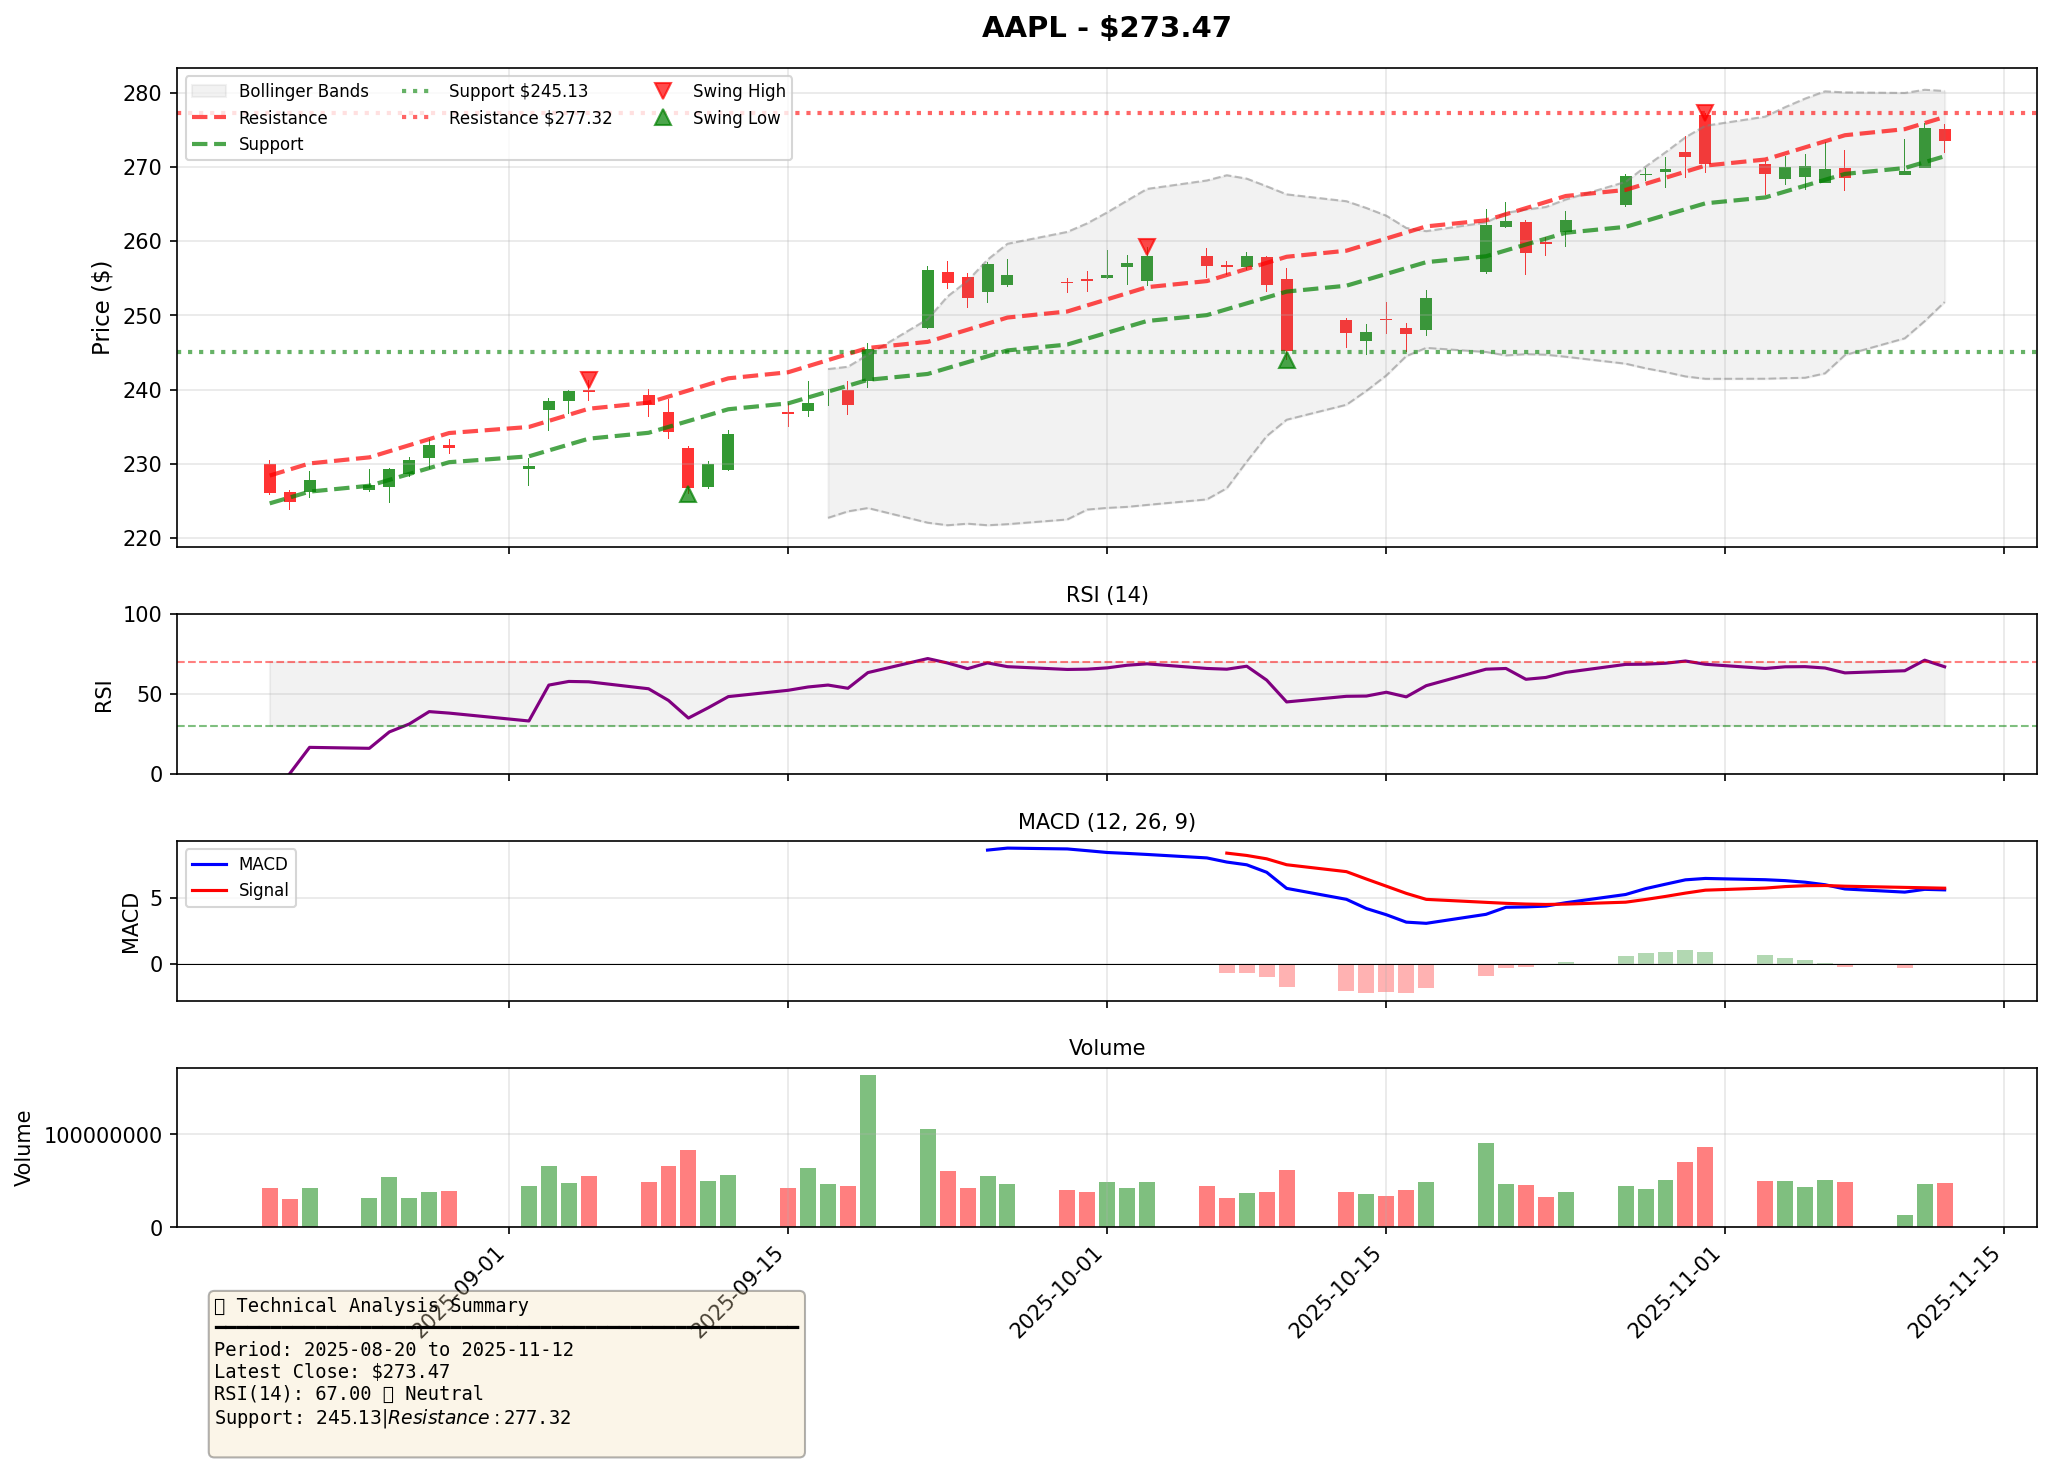
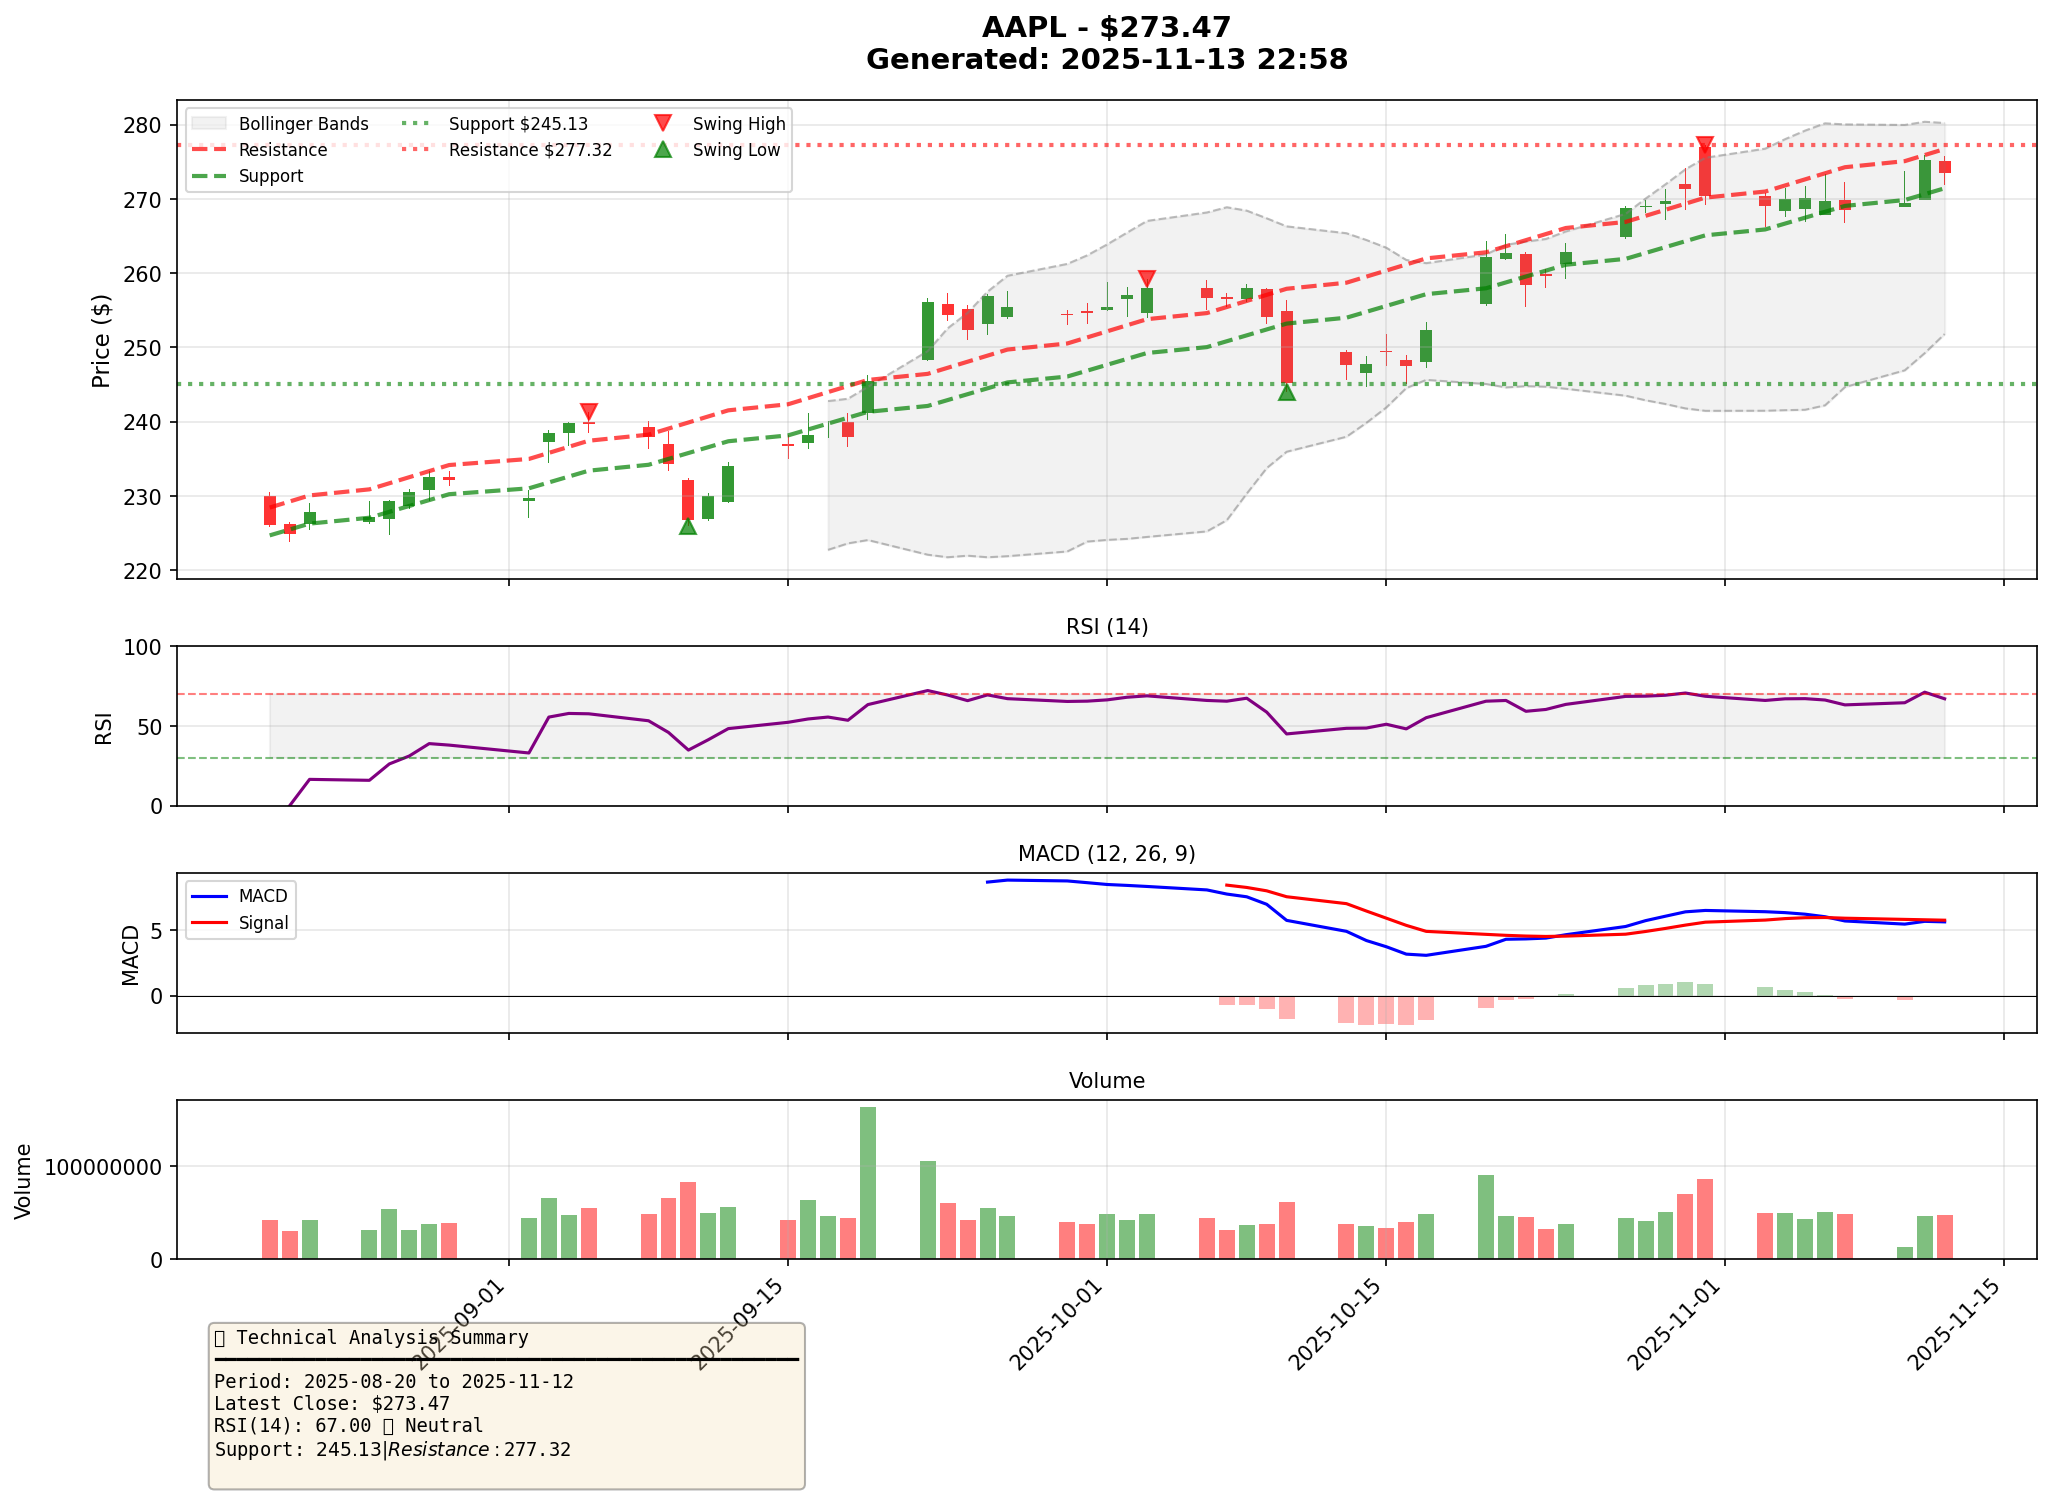
feat: Add generation date to all charts and remove timestamps from filenames
Chart Naming Consistency:
- Remove timestamps from ABC chart filenames
- Changed: AAPL_ABC_BULLISH_20251113_225051.png
- To: AAPL_ABC_BULLISH.png
- Now consistent with breakouts and indicators charts

Generation Date Display:
- Add 'Generated: YYYY-MM-DD HH:MM' to all chart titles
- ABC charts: Shows in title (2nd line)
- Breakout charts: Shows in title with price/trend
- Indicator charts: Shows in title (2nd line)

Benefits:
✅ Consistent naming across all chart types
✅ Generation date visible IN the chart itself
✅ One chart file per symbol (cleaner folders)
✅ Charts overwrite daily (no accumulation)
✅ Easy to reference with fixed filenames
✅ Git history preserves old versions if needed

Filenames:
- Breakouts: AAPL.png, TQQQ.png, etc.
- Indicators: AAPL_indicators.png, TQQQ_indicators.png, etc.
- ABC Patterns: AAPL_ABC_BULLISH.png, TQQQ_ABC_BULLISH.png, etc.

All charts now show when they were generated!

diff --git a/src/chart_utils.py b/src/chart_utils.py
@@ -88,14 +88,14 @@ class ChartOrganizer:
     def get_abc_pattern_path(self, 
                             symbol: str, 
                             pattern_type: str,
-                            timestamp: bool = True) -> Path:
+                            timestamp: bool = False) -> Path:
         """
         Get path for ABC pattern chart
         
         Args:
             symbol: Symbol name
             pattern_type: BULLISH or BEARISH
-            timestamp: Whether to include timestamp
+            timestamp: Whether to include timestamp (default: False for consistency)
         """
         suffix = f"_ABC_{pattern_type}"
         if timestamp:
@@ -232,7 +232,7 @@ def get_indicators_chart_path(symbol: str, timestamp: bool = False) -> str:
     """Get path for indicators chart"""
     return str(get_chart_organizer().get_indicators_path(symbol, timestamp))
 
-def get_abc_chart_path(symbol: str, pattern_type: str, timestamp: bool = True) -> str:
+def get_abc_chart_path(symbol: str, pattern_type: str, timestamp: bool = False) -> str:
     """Get path for ABC pattern chart"""
     return str(get_chart_organizer().get_abc_pattern_path(symbol, pattern_type, timestamp))
 
@@ -249,7 +249,7 @@ if __name__ == "__main__":
     print("Example paths:")
     print(f"  Breakout:    {organizer.get_breakout_path('TQQQ')}")
     print(f"  Indicators:  {organizer.get_indicators_path('AAPL')}")
-    print(f"  ABC:         {organizer.get_abc_pattern_path('UBER', 'BULLISH')}")
+    print(f"  ABC:         {organizer.get_abc_pattern_path('UBER', 'BULLISH', timestamp=False)}")
     print(f"  Strategy:    {organizer.get_strategy_path('SP500', 'rsi_macd')}")
     
     organizer.print_summary()

diff --git a/src/visualize_abc_patterns.py b/src/visualize_abc_patterns.py
@@ -105,10 +105,12 @@ class ABCPatternVisualizer:
         ax1.grid(True, alpha=0.3, linestyle='--')
         ax1.legend(loc='upper left', fontsize=10)
         
-        # Title
+        # Title with generation date
+        from datetime import datetime
         trend_emoji = "🟢" if pattern.trend == "BULLISH" else "🔴"
         activation_status = "✅ ACTIVATED" if pattern.activated else "⏳ PENDING"
-        title = f"{trend_emoji} ABC Pattern: {symbol} - {pattern.trend} ({activation_status})"
+        generation_date = datetime.now().strftime('%Y-%m-%d %H:%M')
+        title = f"{trend_emoji} ABC Pattern: {symbol} - {pattern.trend} ({activation_status})\nGenerated: {generation_date}"
         ax1.set_title(title, fontsize=16, fontweight='bold', pad=20)
         
         # Plot volume
@@ -134,7 +136,7 @@ class ABCPatternVisualizer:
         filepath = self.chart_organizer.get_abc_pattern_path(
             symbol=symbol,
             pattern_type=pattern.trend,
-            timestamp=True
+            timestamp=False  # Consistent naming without timestamps
         )
         
         plt.savefig(filepath, dpi=150, bbox_inches='tight', facecolor='white')

diff --git a/src/visualize_breakouts_with_indicators.py b/src/visualize_breakouts_with_indicators.py
@@ -247,8 +247,10 @@ def create_enhanced_chart(symbol, lookback_days=60):
     ax_price.plot(swing_highs.index, swing_highs['High'], 'rv', markersize=8, alpha=0.7, label='Swing High')
     ax_price.plot(swing_lows.index, swing_lows['Low'], 'g^', markersize=8, alpha=0.7, label='Swing Low')
 
-    # Title with breakout info
+    # Title with breakout info and generation date
+    from datetime import datetime
     latest_price = df_recent['Close'].iloc[-1]
+    generation_date = datetime.now().strftime('%Y-%m-%d %H:%M')
     title = f"{symbol} - ${latest_price:.2f}"
 
     # Clean up trendline result (extract breakout_type from dict)
@@ -266,6 +268,8 @@ def create_enhanced_chart(symbol, lookback_days=60):
             # Make it more readable
             sr_msg = sr_type.replace('_', ' ').title().replace('Breakout', '').strip()
             title += f" | 🟢 {sr_msg}"
+    
+    title += f"\nGenerated: {generation_date}"
 
     ax_price.set_title(title, fontsize=14, fontweight='bold', pad=15)
     ax_price.set_ylabel('Price ($)', fontsize=11)

diff --git a/src/visualize_breakouts.py b/src/visualize_breakouts.py
@@ -210,8 +210,9 @@ def create_breakout_chart(symbol: str, lookback_days: int = 60):
         # Plot candlesticks
         latest = recent_df.iloc[-1]
         trend = "📈 UPTREND" if trendline_result['trend_slope_high'] > 0 else "📉 DOWNTREND"
+        generation_date = datetime.now().strftime('%Y-%m-%d %H:%M')
         title = f"{symbol} - Breakout Analysis ({recent_df.index[-1].strftime('%Y-%m-%d')})\n"
-        title += f"Price: ${latest['Close']:.2f} | {trend}"
+        title += f"Price: ${latest['Close']:.2f} | {trend} | Generated: {generation_date}"
 
         plot_candlestick_simple(ax, recent_df, title)
 
